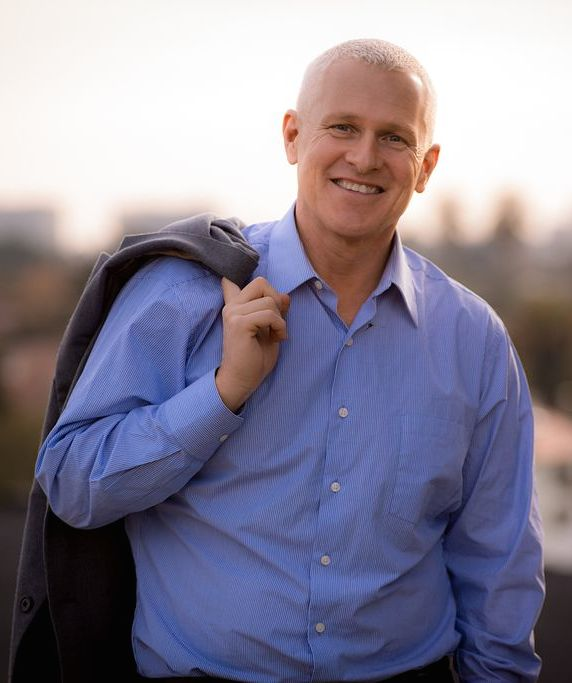
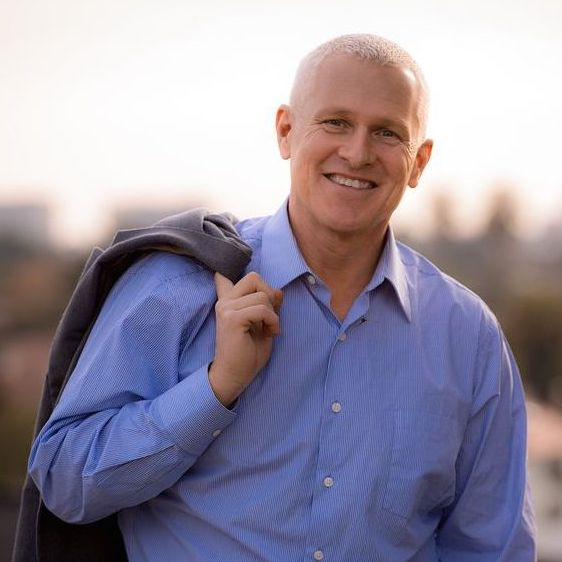
added arrows to link to websites, cropped images, css tweaks

diff --git a/source/stylesheets/bootstrap.css b/source/stylesheets/bootstrap.css
@@ -430,13 +430,27 @@ figure {
 
 img {
   vertical-align: top;
-  margin-right: 5px;
   max-width: 20%;
+  max-height: 20%;
+ 
 }
+
+.icons {
+	width: 50%;
+	
+}
+
 div .descriptionDiv {
 	display: inline-block; 
-	max-width: 76%;
+	max-width: 68%;
 }
+div .arrowDiv {
+	display: inline-block;
+    width: 10%;
+    height: 20%;
+    float: right;
+}
+    
 div .socialDiv {
 	display: block; 
 	max-width: 100%;
@@ -907,6 +921,7 @@ pre code {
 }
 .description {
 	margin-left:15px;
+	margin-right:15px;
 	margin-bottom: 5px;
 }
 .col-xs-12, .col-sm-12{
